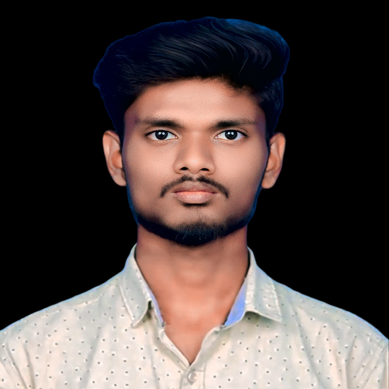
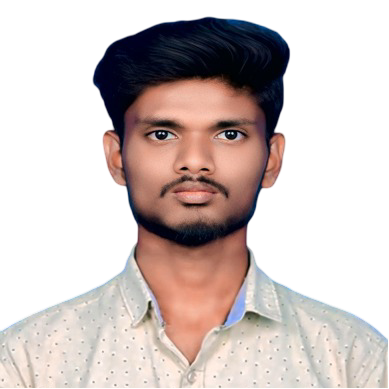
intial-one

diff --git a/arino-react/src/components/Slider/TeamSlider.jsx b/arino-react/src/components/Slider/TeamSlider.jsx
@@ -5,7 +5,7 @@ import Div from '../Div';
 import Team from '../Team';
 const teamData = [
   {
-    memberImage: '/images/ram-k-aluru.png',
+    memberImage: '/images/ram-k-aluru.jpg',
     memberName: 'Dr. Ram K Aluru',
     memberDesignation: 'Chief Executive Officer',
     memberSocial: {
@@ -16,7 +16,7 @@ const teamData = [
     },
   },
   {
-    memberImage: '/images/vikram-srinivasa-raghavan.png',
+    memberImage: '/images/vikram-srinivasa-raghavan.jpg',
     memberName: 'Dr. Vikram Srinivasa Raghavan',
     memberDesignation: 'Chief Technology Officer',
     memberSocial: {
@@ -27,7 +27,7 @@ const teamData = [
     },
   },
   {
-    memberImage: '/images/rajamani-athimotlu-raju.png',
+    memberImage: '/images/rajamani-athimotlu-raju.jpg',
     memberName: 'Dr. Rajamani Athimotlu Raju',
     memberDesignation: 'Head, Polymer Chemistry',
     memberSocial: {
@@ -38,7 +38,7 @@ const teamData = [
     },
   },
   {
-    memberImage: '/images/swati-soni.png',
+    memberImage: '/images/swati-soni.jpg',
     memberName: 'Dr. Swati Soni',
     memberDesignation: 'Head, Material Science and Nanotechnology',
     memberSocial: {
@@ -49,7 +49,7 @@ const teamData = [
     },
   },
   {
-    memberImage: '/images/aditya.png',
+    memberImage: '/images/aditya.jpg',
     memberName: 'Mr. Aditya AS',
     memberDesignation: 'Quasi AI & Quantum Expert',
     memberSocial: {
